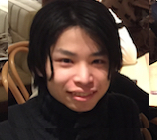
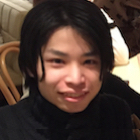
make things bigger

diff --git a/site/profile.html b/site/profile.html
@@ -376,9 +376,10 @@
 
 <h1>Profile</h1>
 <div class="introduction" style="text-align:center">
-<img data-src="holder.js/140x140" class="img-circle" alt="140x140" src="./img/me7.jpg" data-holder-rendered="true" style="width: 140px; height: 140px;border-radius:50%;">
-<h2>Hiroaki Machida</h2>
-<h3>Slackoverflow Inc.</h3>
+<img data-src="holder.js/140x140" class="img-circle" alt="140x140" src="./img/me7.jpg" data-holder-rendered="true" style="width: 160px; height: 160px;border-radius:50%;border:3px #AAAAAA solid;margin-bottom:10px;">
+<h1>Hiroaki Machida</h1>
+<p><span style="font-size:20px;">Software Developer</span></p>
+<h1 style="margin:20px">1074 Tacks</h1>
 </div>
 <br>
 <style>
